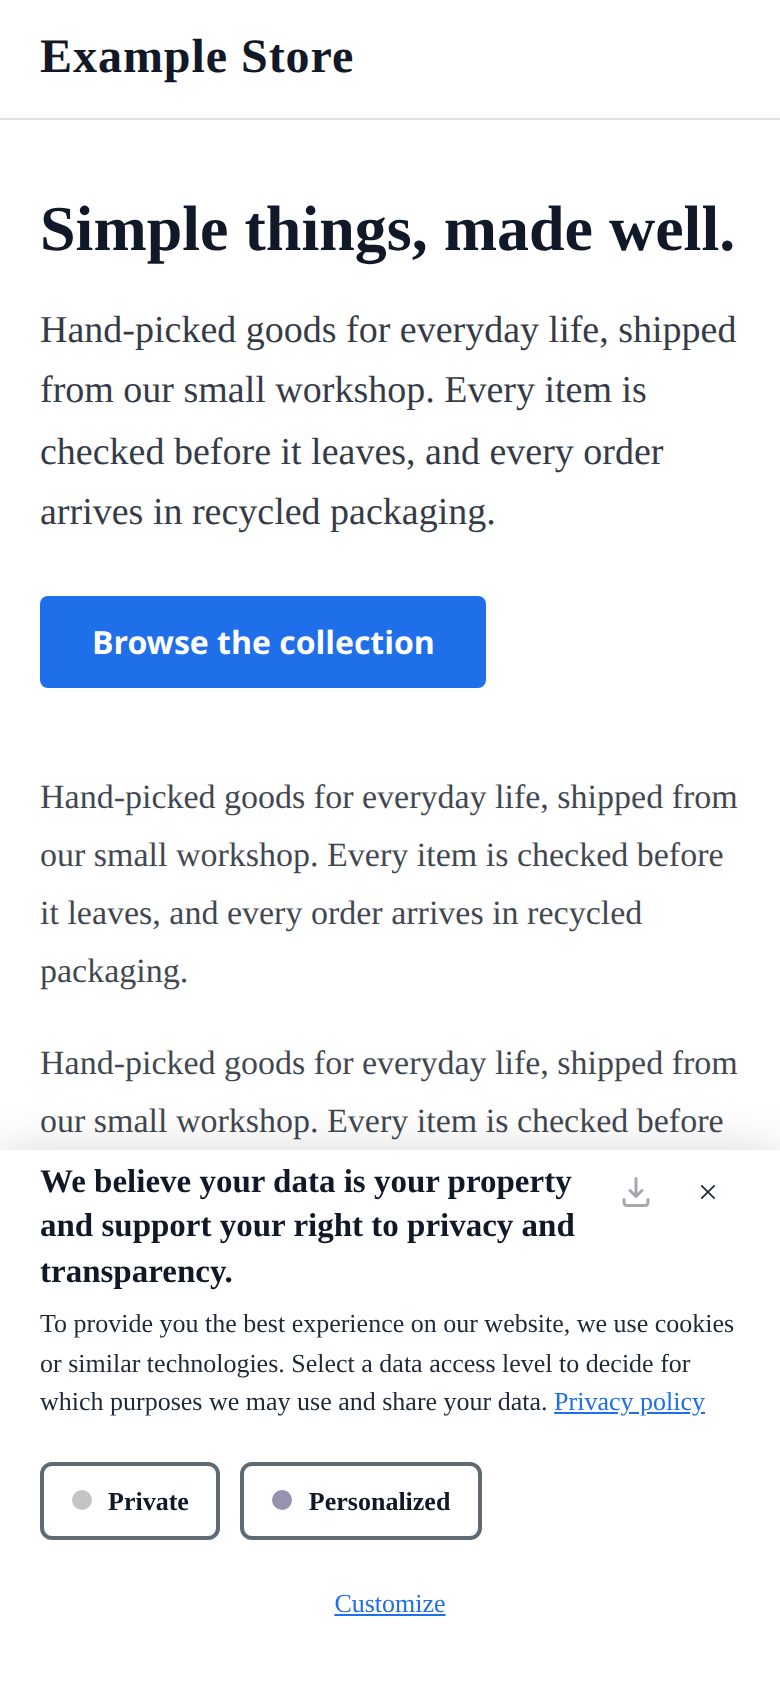
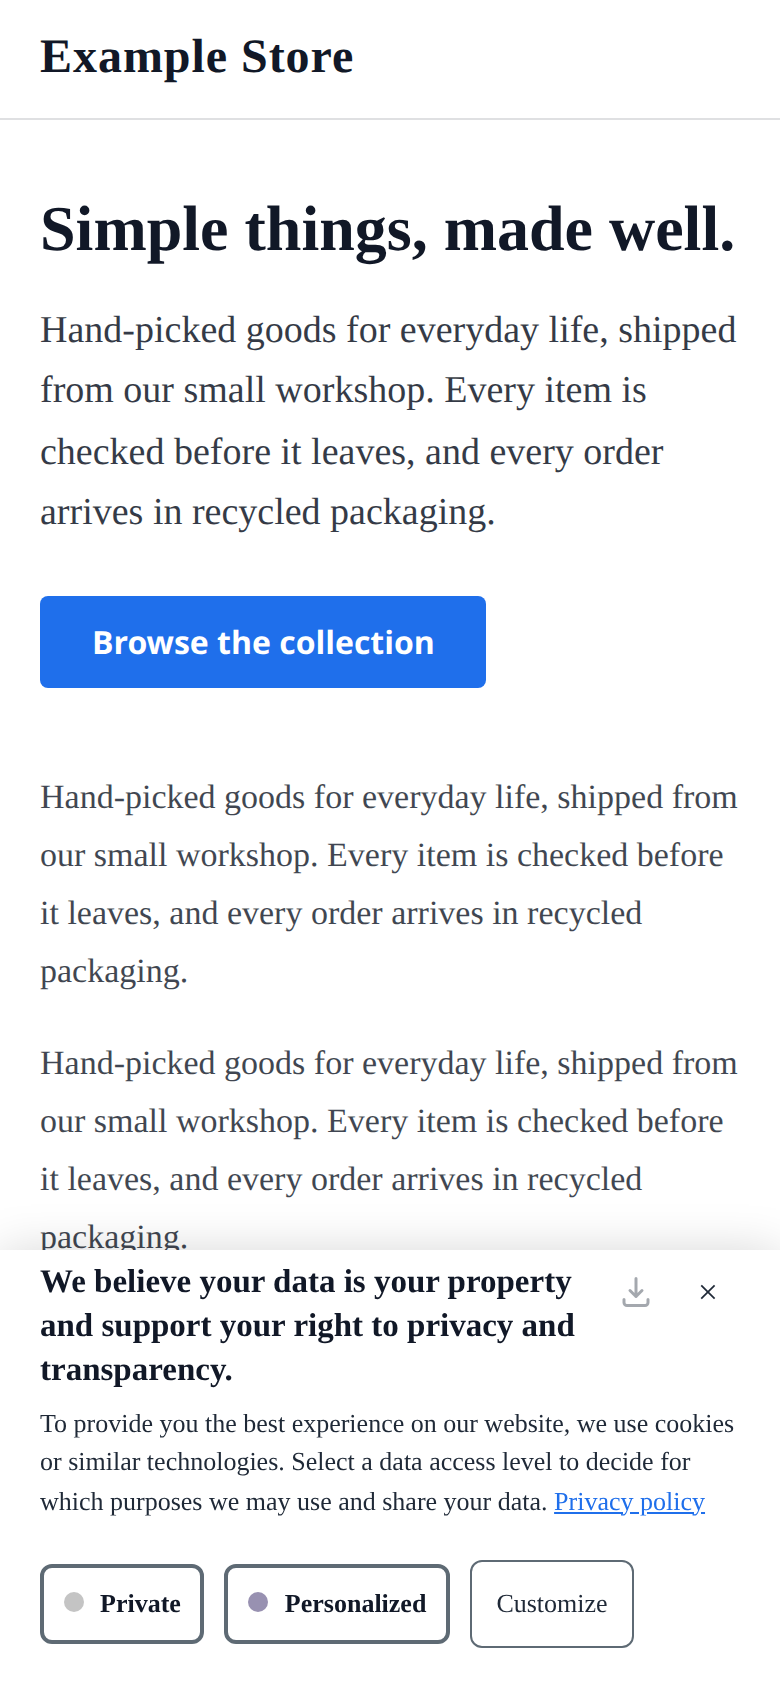
docs(gallery): re-shoot compact phone; Customize stays a button on phones
The live v2 banner keeps Customize as a secondary button in the level row
on narrow screens. Re-rendered the example and updated its caption, alt
text and the gallery's own description of the compact phone layout.

Changed region(s): [[0.0308, 0.6777, 0.9231, 0.9858], [0.6462, 0.9242, 0.7692, 0.955]]

diff --git a/gallery/v2/index.html b/gallery/v2/index.html
@@ -65,7 +65,7 @@
     {
       "@type": "ImageObject",
       "name": "Compact on a phone",
-      "caption": "v2 consent banner in the compact style on a phone-sized screen, as a white sheet across the bottom of a white page: the heading in the top row beside download and close icons, the message with a blue Privacy policy link, Private and Personalized buttons side by side, and Customize as a blue underlined link centred below them.",
+      "caption": "v2 consent banner in the compact style on a phone-sized screen, as a white sheet across the bottom of a white page: the heading in the top row beside download and close icons, the message with a blue Privacy policy link, then Private, Personalized and a lighter-bordered Customize button side by side in one row.",
       "contentUrl": "https://manual.hu-manity.co/gallery/v2/img/compact-phone.png"
     },
     {
@@ -163,7 +163,7 @@
     <p>v2 has two styles, set with <code>config.bannerStyle</code> (a config key, not a design key):</p>
     <ul>
       <li><strong>Standard</strong> (the default): the site's domain in the top row, the heading and message below it, then the level buttons, then Customize. Balanced shows only when the app offers three choices (its number-of-choices setting); with two, standard shows Private and Personalized. On screens 480px wide or less the level buttons and Customize stack into one full-width column.</li>
-      <li><strong>Compact:</strong> the first layer offers Private and Personalized only (Customize still lists every category), and the heading moves into the top row in place of the domain. At <code>position</code> top or bottom with <code>displayType</code> fixed, on screens 1200px wide or more, the whole banner is a single-row bar. On screens 480px wide or less, Customize becomes an underlined link in <code>primaryColor</code>.</li>
+      <li><strong>Compact:</strong> the first layer offers Private and Personalized only (Customize still lists every category), and the heading moves into the top row in place of the domain. At <code>position</code> top or bottom with <code>displayType</code> fixed, on screens 1200px wide or more, the whole banner is a single-row bar. On screens 480px wide or less, Customize stays a button in the same row as the level buttons.</li>
     </ul>
     <p>The examples use the default behaviour settings. On a live banner, the number of choices, the close button and which links show depend on the app's settings and the visitor's region.</p>
   </section>
@@ -326,7 +326,7 @@
       <figcaption><strong>Standard right panel</strong><span class="desc">Standard style as a full-height dark panel down the right side, with square-cornered buttons and rose links.</span></figcaption>
     </figure>
     <figure id="compact-phone">
-      <img src="img/compact-phone.png" alt="v2 consent banner in the compact style on a phone-sized screen, as a white sheet across the bottom of a white page: the heading in the top row beside download and close icons, the message with a blue Privacy policy link, Private and Personalized buttons side by side, and Customize as a blue underlined link centred below them." width="780" height="1688" loading="lazy">
+      <img src="img/compact-phone.png" alt="v2 consent banner in the compact style on a phone-sized screen, as a white sheet across the bottom of a white page: the heading in the top row beside download and close icons, the message with a blue Privacy policy link, then Private, Personalized and a lighter-bordered Customize button side by side in one row." width="780" height="1688" loading="lazy">
       <details>
         <summary>Design and config JSON</summary>
         <pre><code>{
@@ -349,7 +349,7 @@
   }
 }</code></pre>
       </details>
-      <figcaption><strong>Compact on a phone</strong><span class="desc">Compact style on a phone: two level buttons side by side, and Customize as an underlined link below them.</span></figcaption>
+      <figcaption><strong>Compact on a phone</strong><span class="desc">Compact style on a phone: two level buttons and a Customize button side by side in one row.</span></figcaption>
     </figure>
     <figure id="standard-phone">
       <img src="img/standard-phone.png" alt="v2 consent banner in the standard style on a phone-sized screen, as an off-white card floating at the bottom of an off-white page: the site domain with download and close icons at the top, a centred heading and message with a near-black Privacy policy link, then full-width Private, Balanced and Personalized buttons stacked in a column, with a full-width Customize button last." width="780" height="1688" loading="lazy">
@@ -407,7 +407,7 @@
     <ul>
       <li><code>textColor</code> on <code>bannerColor</code>: the message and the Customize label.</li>
       <li><code>headingColor</code> on <code>bannerColor</code>: the heading and the level button labels.</li>
-      <li><code>primaryColor</code> on <code>bannerColor</code>: the links, and compact's Customize link on phones.</li>
+      <li><code>primaryColor</code> on <code>bannerColor</code>: the links.</li>
       <li><code>textColor</code> at 0.7 opacity over <code>bannerColor</code>: the site's domain (standard only).</li>
       <li><code>textColor</code> at 0.85 opacity over <code>bannerColor</code>: the note shown to a visitor who sends Global Privacy Control.</li>
       <li><code>btnTextColor</code> on <code>primaryColor</code>: a chosen level button.</li>

diff --git a/site/gallery/v2/index.html b/site/gallery/v2/index.html
@@ -65,7 +65,7 @@
     {
       "@type": "ImageObject",
       "name": "Compact on a phone",
-      "caption": "v2 consent banner in the compact style on a phone-sized screen, as a white sheet across the bottom of a white page: the heading in the top row beside download and close icons, the message with a blue Privacy policy link, Private and Personalized buttons side by side, and Customize as a blue underlined link centred below them.",
+      "caption": "v2 consent banner in the compact style on a phone-sized screen, as a white sheet across the bottom of a white page: the heading in the top row beside download and close icons, the message with a blue Privacy policy link, then Private, Personalized and a lighter-bordered Customize button side by side in one row.",
       "contentUrl": "https://manual.hu-manity.co/gallery/v2/img/compact-phone.png"
     },
     {
@@ -163,7 +163,7 @@
     <p>v2 has two styles, set with <code>config.bannerStyle</code> (a config key, not a design key):</p>
     <ul>
       <li><strong>Standard</strong> (the default): the site's domain in the top row, the heading and message below it, then the level buttons, then Customize. Balanced shows only when the app offers three choices (its number-of-choices setting); with two, standard shows Private and Personalized. On screens 480px wide or less the level buttons and Customize stack into one full-width column.</li>
-      <li><strong>Compact:</strong> the first layer offers Private and Personalized only (Customize still lists every category), and the heading moves into the top row in place of the domain. At <code>position</code> top or bottom with <code>displayType</code> fixed, on screens 1200px wide or more, the whole banner is a single-row bar. On screens 480px wide or less, Customize becomes an underlined link in <code>primaryColor</code>.</li>
+      <li><strong>Compact:</strong> the first layer offers Private and Personalized only (Customize still lists every category), and the heading moves into the top row in place of the domain. At <code>position</code> top or bottom with <code>displayType</code> fixed, on screens 1200px wide or more, the whole banner is a single-row bar. On screens 480px wide or less, Customize stays a button in the same row as the level buttons.</li>
     </ul>
     <p>The examples use the default behaviour settings. On a live banner, the number of choices, the close button and which links show depend on the app's settings and the visitor's region.</p>
   </section>
@@ -326,7 +326,7 @@
       <figcaption><strong>Standard right panel</strong><span class="desc">Standard style as a full-height dark panel down the right side, with square-cornered buttons and rose links.</span></figcaption>
     </figure>
     <figure id="compact-phone">
-      <img src="img/compact-phone.png" alt="v2 consent banner in the compact style on a phone-sized screen, as a white sheet across the bottom of a white page: the heading in the top row beside download and close icons, the message with a blue Privacy policy link, Private and Personalized buttons side by side, and Customize as a blue underlined link centred below them." width="780" height="1688" loading="lazy">
+      <img src="img/compact-phone.png" alt="v2 consent banner in the compact style on a phone-sized screen, as a white sheet across the bottom of a white page: the heading in the top row beside download and close icons, the message with a blue Privacy policy link, then Private, Personalized and a lighter-bordered Customize button side by side in one row." width="780" height="1688" loading="lazy">
       <details>
         <summary>Design and config JSON</summary>
         <pre><code>{
@@ -349,7 +349,7 @@
   }
 }</code></pre>
       </details>
-      <figcaption><strong>Compact on a phone</strong><span class="desc">Compact style on a phone: two level buttons side by side, and Customize as an underlined link below them.</span></figcaption>
+      <figcaption><strong>Compact on a phone</strong><span class="desc">Compact style on a phone: two level buttons and a Customize button side by side in one row.</span></figcaption>
     </figure>
     <figure id="standard-phone">
       <img src="img/standard-phone.png" alt="v2 consent banner in the standard style on a phone-sized screen, as an off-white card floating at the bottom of an off-white page: the site domain with download and close icons at the top, a centred heading and message with a near-black Privacy policy link, then full-width Private, Balanced and Personalized buttons stacked in a column, with a full-width Customize button last." width="780" height="1688" loading="lazy">
@@ -407,7 +407,7 @@
     <ul>
       <li><code>textColor</code> on <code>bannerColor</code>: the message and the Customize label.</li>
       <li><code>headingColor</code> on <code>bannerColor</code>: the heading and the level button labels.</li>
-      <li><code>primaryColor</code> on <code>bannerColor</code>: the links, and compact's Customize link on phones.</li>
+      <li><code>primaryColor</code> on <code>bannerColor</code>: the links.</li>
       <li><code>textColor</code> at 0.7 opacity over <code>bannerColor</code>: the site's domain (standard only).</li>
       <li><code>textColor</code> at 0.85 opacity over <code>bannerColor</code>: the note shown to a visitor who sends Global Privacy Control.</li>
       <li><code>btnTextColor</code> on <code>primaryColor</code>: a chosen level button.</li>

diff --git a/gallery/v2/README.md b/gallery/v2/README.md
@@ -17,7 +17,7 @@ The v2 first layer offers the consent levels as buttons, Private, Personalized a
 v2 has two styles, set with `config.bannerStyle` (a config key, not a design key):
 
 - **Standard** (the default): the site's domain in the top row, the heading and message below it, then the level buttons, then Customize. Balanced shows only when the app offers three choices (its number-of-choices setting); with two, standard shows Private and Personalized. On screens 480px wide or less the level buttons and Customize stack into one full-width column.
-- **Compact:** the first layer offers Private and Personalized only (Customize still lists every category), and the heading moves into the top row in place of the domain. At `position` top or bottom with `displayType` fixed, on screens 1200px wide or more, the whole banner is a single-row bar. On screens 480px wide or less, Customize becomes an underlined link in `primaryColor`.
+- **Compact:** the first layer offers Private and Personalized only (Customize still lists every category), and the heading moves into the top row in place of the domain. At `position` top or bottom with `displayType` fixed, on screens 1200px wide or more, the whole banner is a single-row bar. On screens 480px wide or less, Customize stays a button in the same row as the level buttons.
 
 The examples use the default behaviour settings. On a live banner, the number of choices, the close button and which links show depend on the app's settings and the visitor's region.
 
@@ -191,9 +191,9 @@ Standard style as a full-height dark panel down the right side, with square-corn
 
 ## Compact on a phone
 
-![v2 consent banner in the compact style on a phone-sized screen, as a white sheet across the bottom of a white page: the heading in the top row beside download and close icons, the message with a blue Privacy policy link, Private and Personalized buttons side by side, and Customize as a blue underlined link centred below them.](img/compact-phone.png)
+![v2 consent banner in the compact style on a phone-sized screen, as a white sheet across the bottom of a white page: the heading in the top row beside download and close icons, the message with a blue Privacy policy link, then Private, Personalized and a lighter-bordered Customize button side by side in one row.](img/compact-phone.png)
 
-Compact style on a phone: two level buttons side by side, and Customize as an underlined link below them.
+Compact style on a phone: two level buttons and a Customize button side by side in one row.
 
 ```json
 {
@@ -271,7 +271,7 @@ If you derive your own v2 colours, check these pairs at 4.5:1 with `bannerOpacit
 
 - `textColor` on `bannerColor`: the message and the Customize label.
 - `headingColor` on `bannerColor`: the heading and the level button labels.
-- `primaryColor` on `bannerColor`: the links, and compact's Customize link on phones.
+- `primaryColor` on `bannerColor`: the links.
 - `textColor` at 0.7 opacity over `bannerColor`: the site's domain (standard only).
 - `textColor` at 0.85 opacity over `bannerColor`: the note shown to a visitor who sends Global Privacy Control.
 - `btnTextColor` on `primaryColor`: a chosen level button.

diff --git a/site/gallery/v2/README.md b/site/gallery/v2/README.md
@@ -17,7 +17,7 @@ The v2 first layer offers the consent levels as buttons, Private, Personalized a
 v2 has two styles, set with `config.bannerStyle` (a config key, not a design key):
 
 - **Standard** (the default): the site's domain in the top row, the heading and message below it, then the level buttons, then Customize. Balanced shows only when the app offers three choices (its number-of-choices setting); with two, standard shows Private and Personalized. On screens 480px wide or less the level buttons and Customize stack into one full-width column.
-- **Compact:** the first layer offers Private and Personalized only (Customize still lists every category), and the heading moves into the top row in place of the domain. At `position` top or bottom with `displayType` fixed, on screens 1200px wide or more, the whole banner is a single-row bar. On screens 480px wide or less, Customize becomes an underlined link in `primaryColor`.
+- **Compact:** the first layer offers Private and Personalized only (Customize still lists every category), and the heading moves into the top row in place of the domain. At `position` top or bottom with `displayType` fixed, on screens 1200px wide or more, the whole banner is a single-row bar. On screens 480px wide or less, Customize stays a button in the same row as the level buttons.
 
 The examples use the default behaviour settings. On a live banner, the number of choices, the close button and which links show depend on the app's settings and the visitor's region.
 
@@ -191,9 +191,9 @@ Standard style as a full-height dark panel down the right side, with square-corn
 
 ## Compact on a phone
 
-![v2 consent banner in the compact style on a phone-sized screen, as a white sheet across the bottom of a white page: the heading in the top row beside download and close icons, the message with a blue Privacy policy link, Private and Personalized buttons side by side, and Customize as a blue underlined link centred below them.](img/compact-phone.png)
+![v2 consent banner in the compact style on a phone-sized screen, as a white sheet across the bottom of a white page: the heading in the top row beside download and close icons, the message with a blue Privacy policy link, then Private, Personalized and a lighter-bordered Customize button side by side in one row.](img/compact-phone.png)
 
-Compact style on a phone: two level buttons side by side, and Customize as an underlined link below them.
+Compact style on a phone: two level buttons and a Customize button side by side in one row.
 
 ```json
 {
@@ -271,7 +271,7 @@ If you derive your own v2 colours, check these pairs at 4.5:1 with `bannerOpacit
 
 - `textColor` on `bannerColor`: the message and the Customize label.
 - `headingColor` on `bannerColor`: the heading and the level button labels.
-- `primaryColor` on `bannerColor`: the links, and compact's Customize link on phones.
+- `primaryColor` on `bannerColor`: the links.
 - `textColor` at 0.7 opacity over `bannerColor`: the site's domain (standard only).
 - `textColor` at 0.85 opacity over `bannerColor`: the note shown to a visitor who sends Global Privacy Control.
 - `btnTextColor` on `primaryColor`: a chosen level button.
